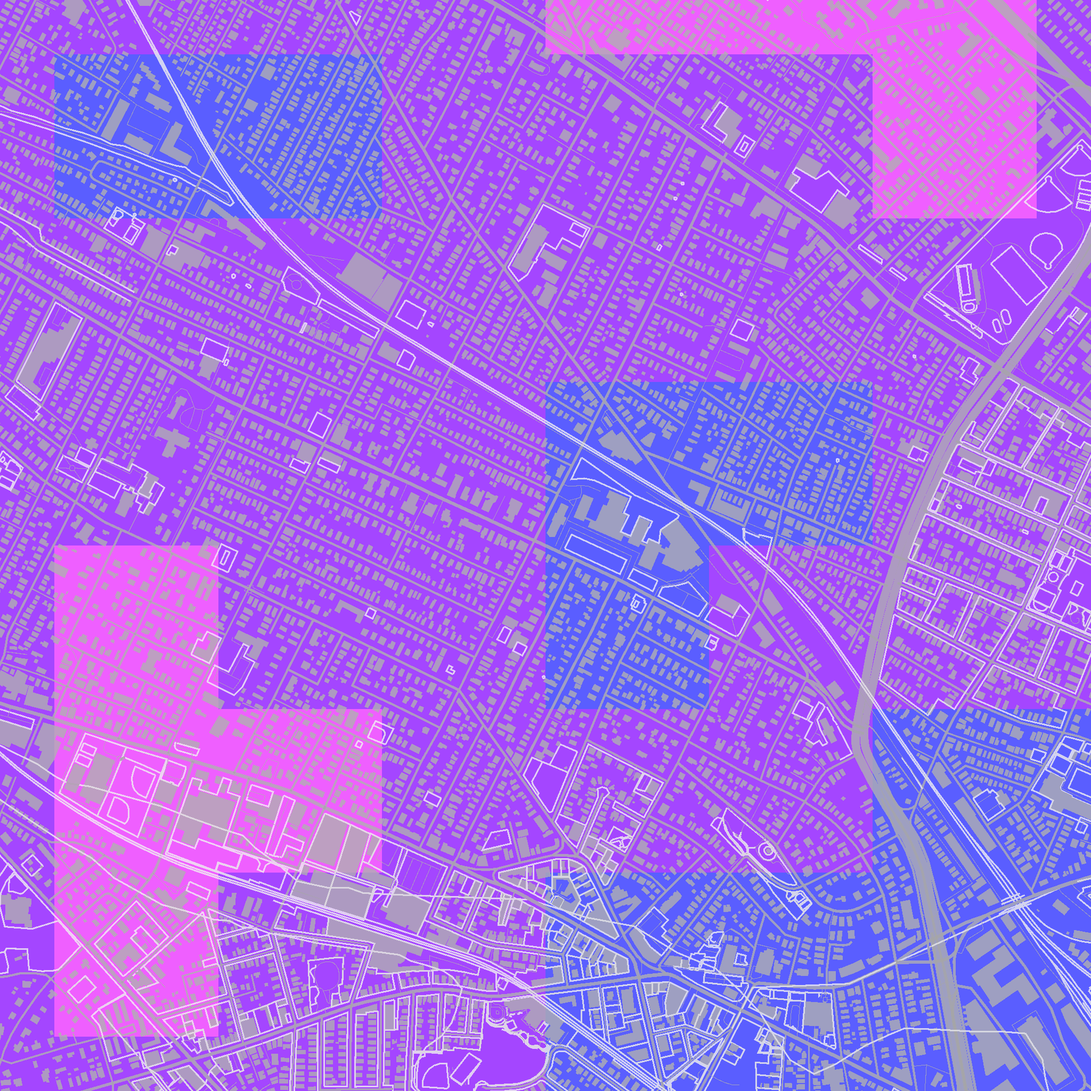
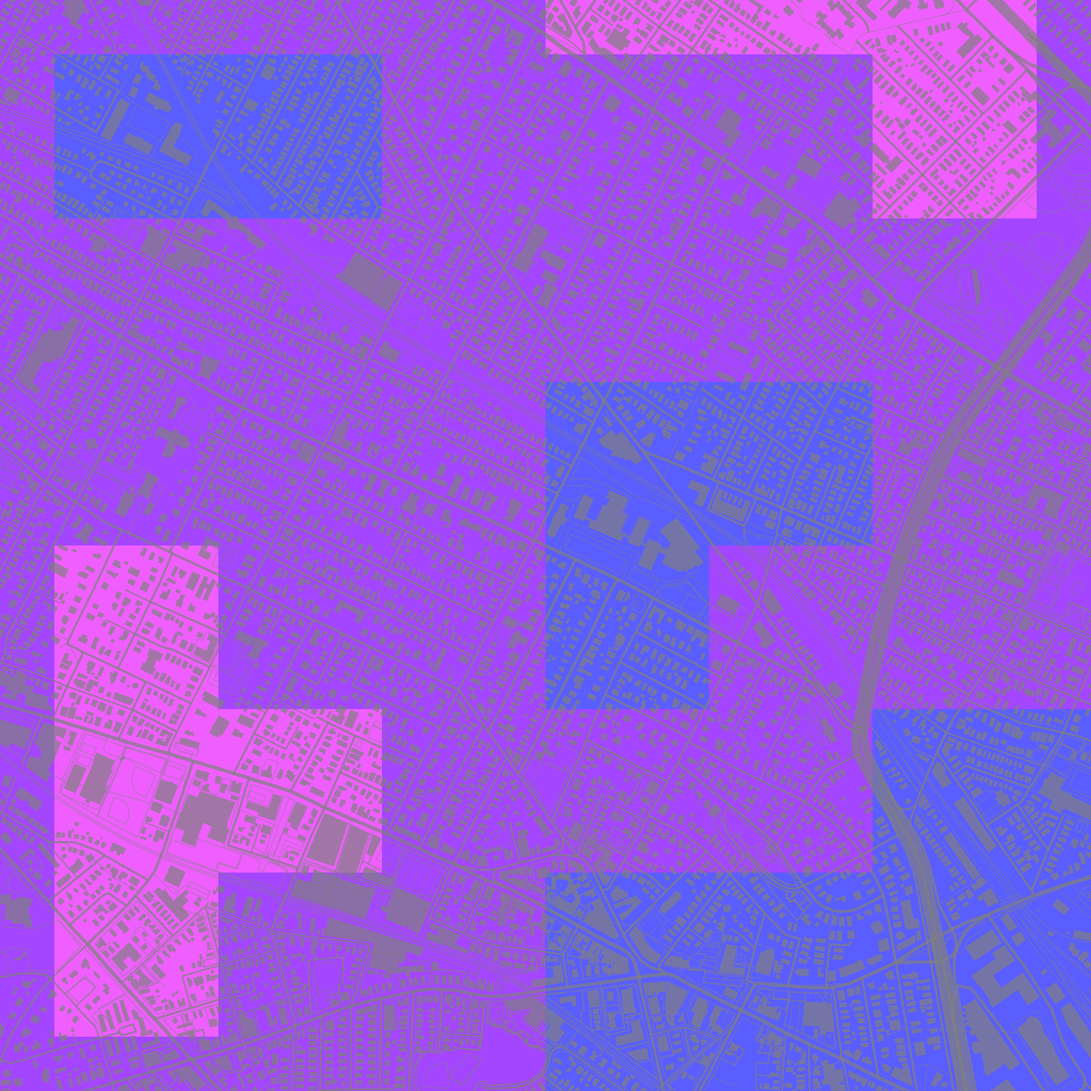
Final image should not be transparent

diff --git a/src/graphics.rs b/src/graphics.rs
@@ -429,7 +429,11 @@ pub fn leggo<R: Render>(render: R, viewport: Box2DData, path: std::path::PathBuf
                 dst_factor: wgpu::BlendFactor::OneMinusSrcAlpha,
                 operation: wgpu::BlendOperation::Add,
             },
-            alpha_blend: wgpu::BlendDescriptor::REPLACE,
+            alpha_blend: wgpu::BlendDescriptor {
+                src_factor: wgpu::BlendFactor::Zero,
+                dst_factor: wgpu::BlendFactor::One,
+                operation: wgpu::BlendOperation::Add,
+            },
             write_mask: wgpu::ColorWrite::ALL,
         }],
         depth_stencil_state: None,
@@ -557,6 +561,7 @@ pub fn leggo<R: Render>(render: R, viewport: Box2DData, path: std::path::PathBuf
 
     device.get_queue().submit(&[command_buffer]);
 
+    // Dump the image into a PNG
     output_buffer.map_read_async(
         0,
         (std::mem::size_of::<u32>() as u32 * size * size) as u64,
